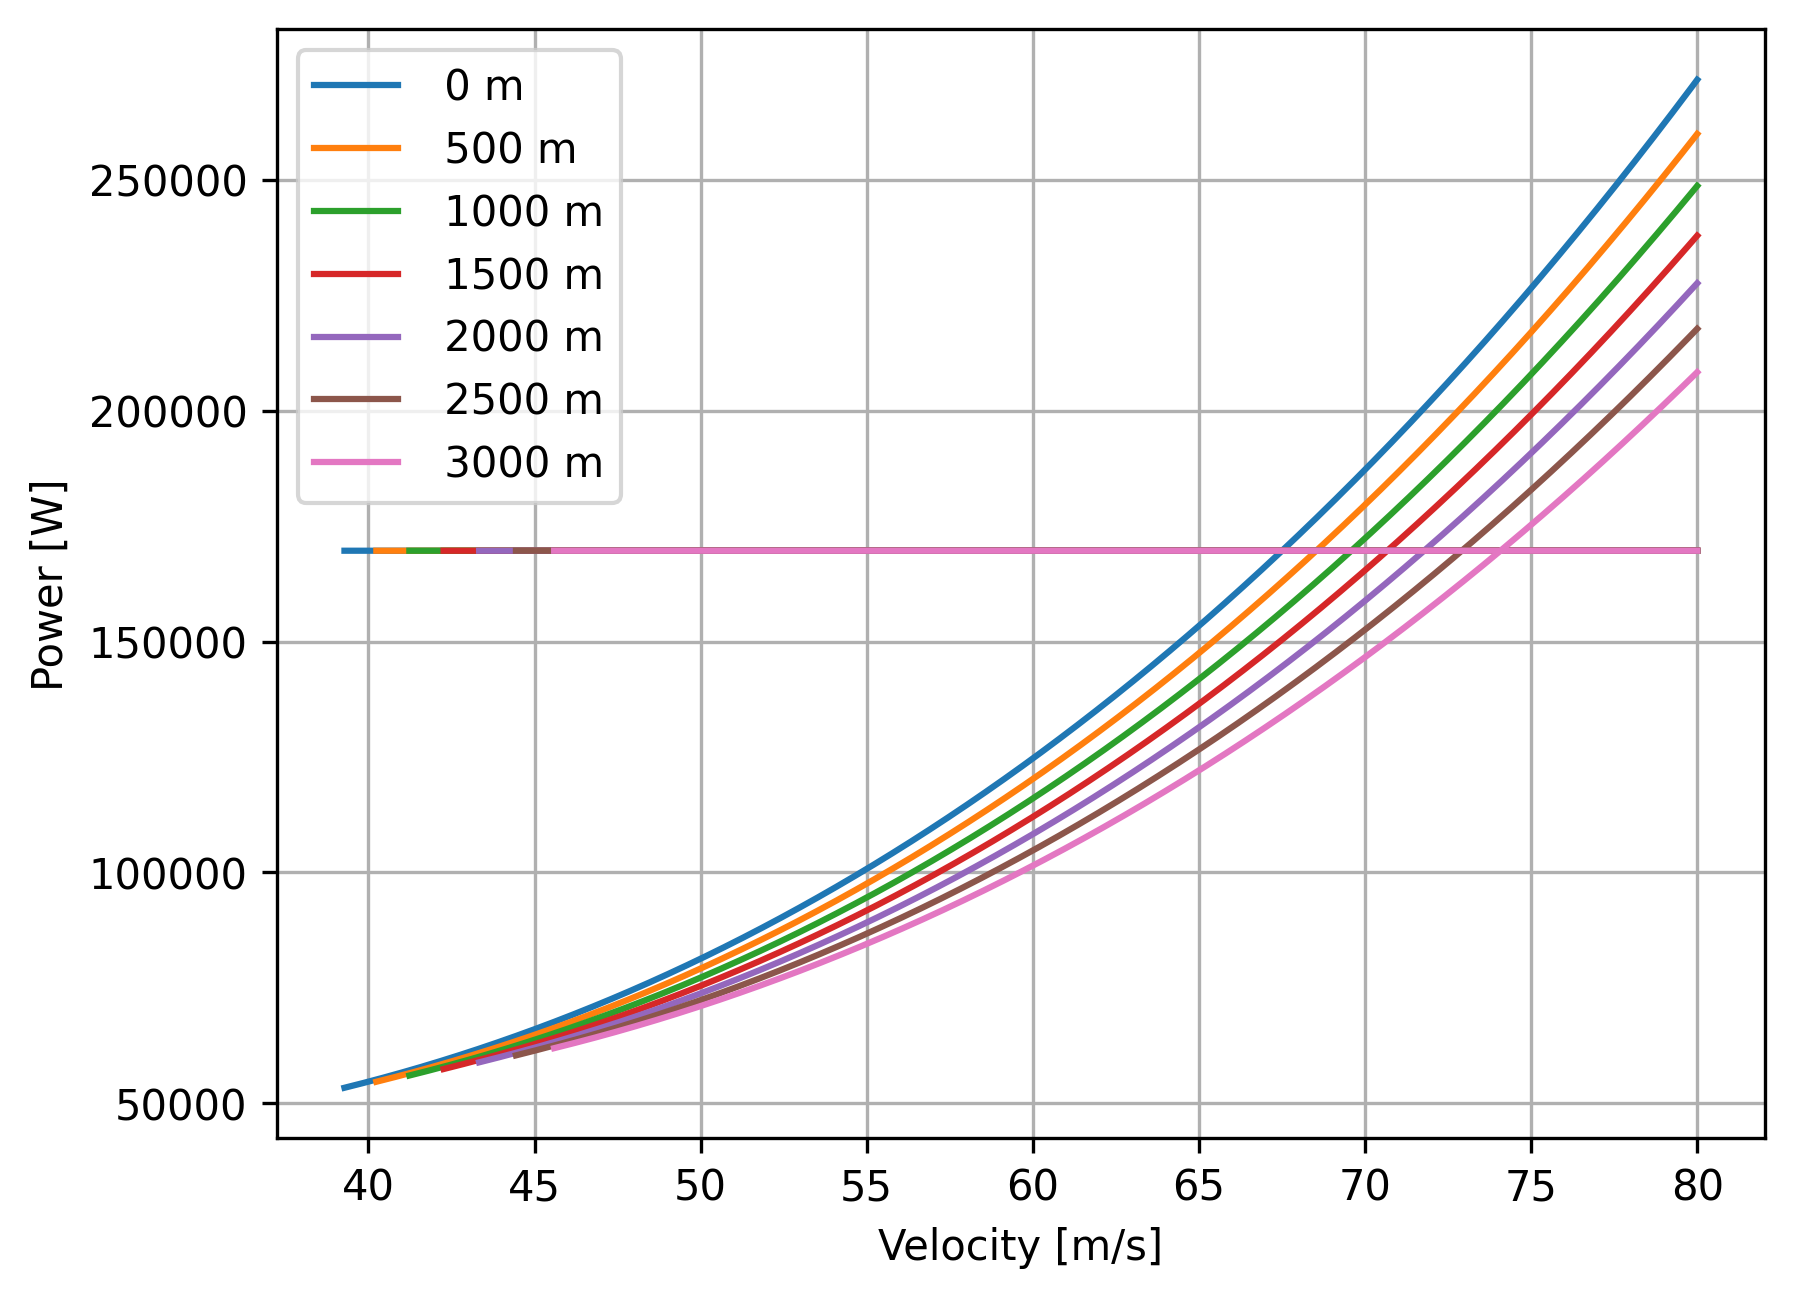
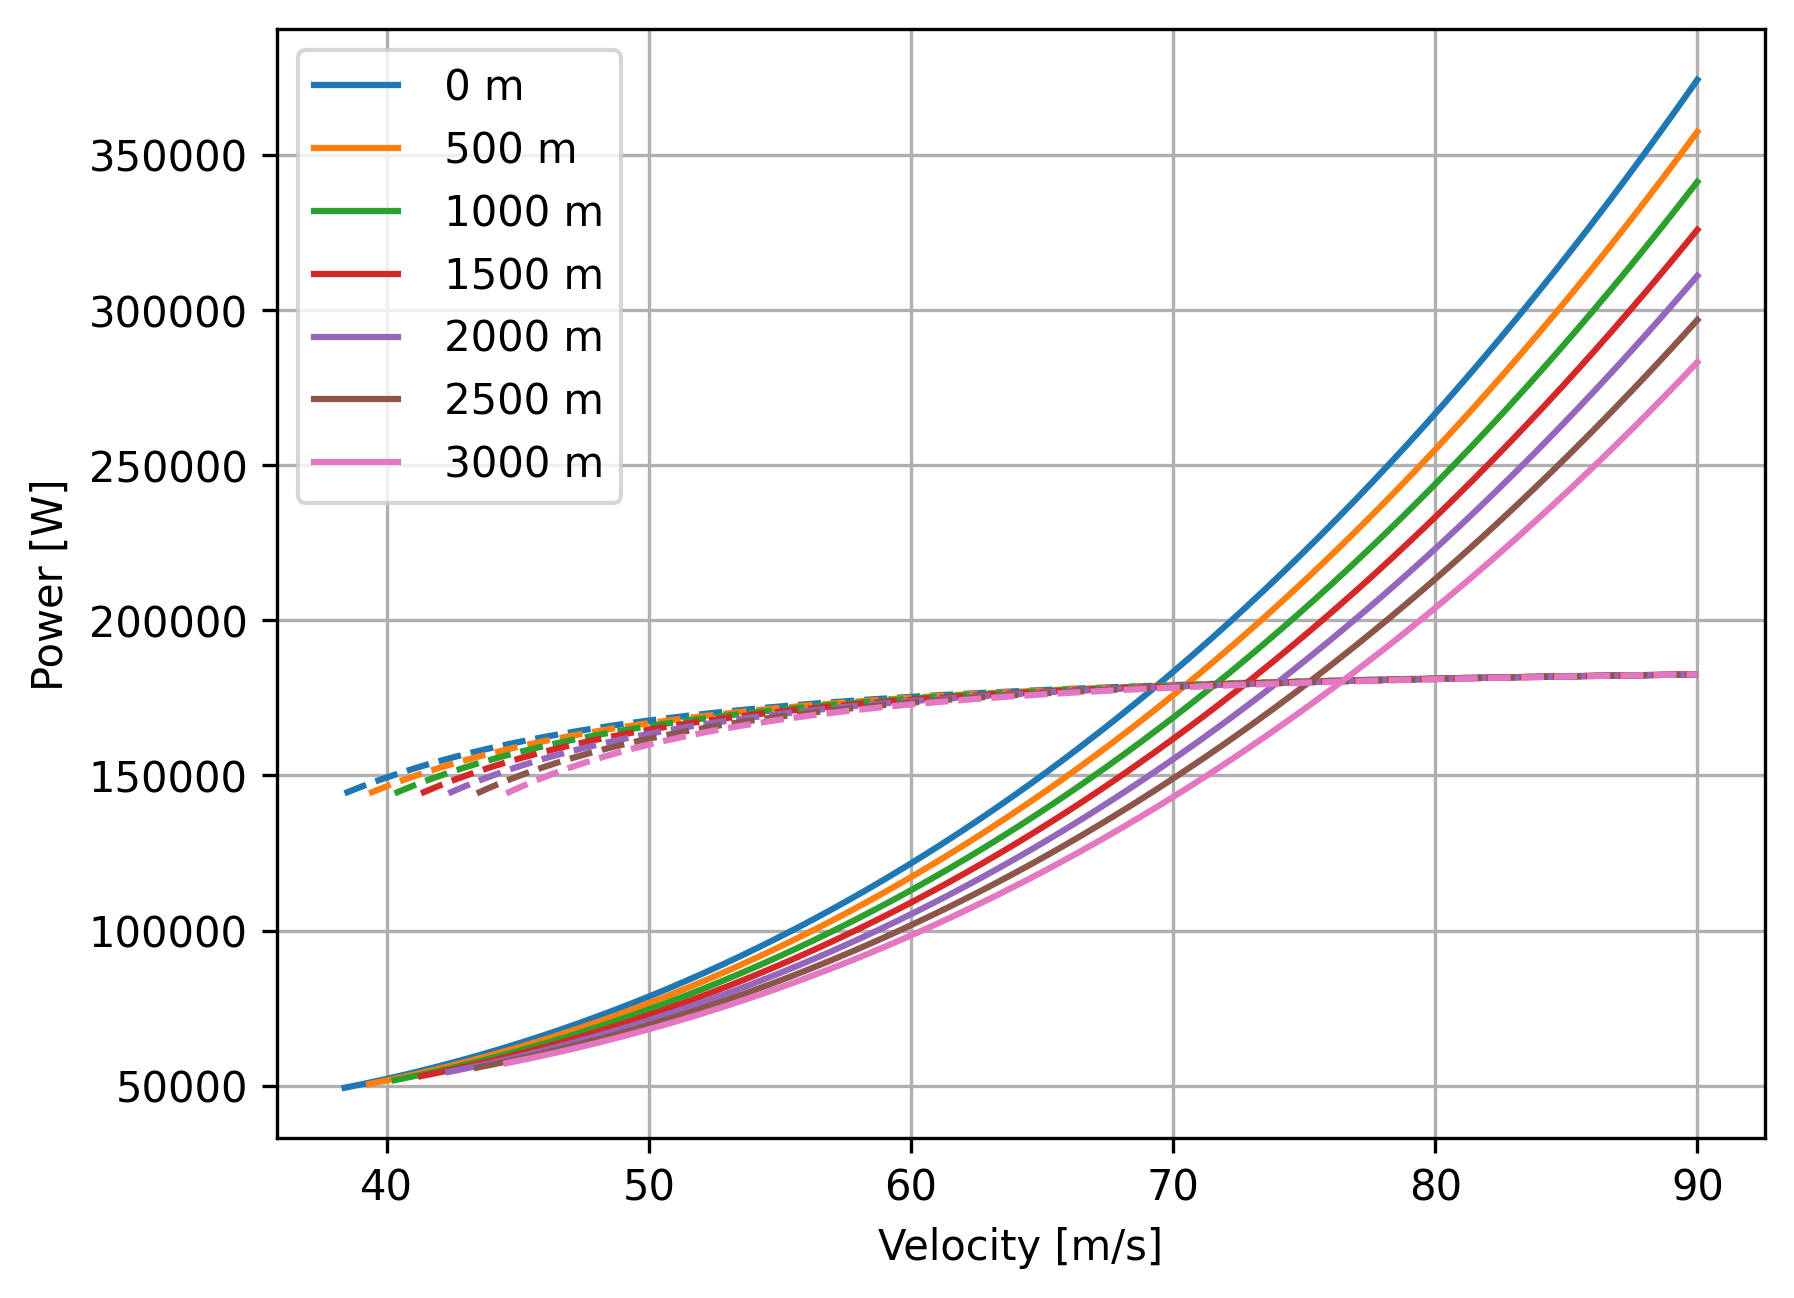
changes to implement power available

diff --git a/performance_diagrams/performance_diagrams.py b/performance_diagrams/performance_diagrams.py
@@ -9,21 +9,29 @@ from classes.isa import *
 from lookups.consts import *
 import matplotlib.pyplot as plt
 from pathlib import Path
+from Propeller_performance import *
 
 
 def stall_speed(mtow, C_l_max, rho, S):
     return math.sqrt((2 * mtow)/(rho * S * C_l_max))
 
 
-def power_calc(cd0, e, AR, mtow, V, S,alt_m, eta_p, P_shaft,Delta_T):
+def power_calc(cd0, e, AR, mtow, V, S,alt_m, P_shaft,Delta_T, D_ft):
     #one altitude
+    
     atmos_model = Atmosphere(alt_m, Delta_T)
     rho = atmos_model.density[0]
+    T_engine, P_useful_w = curve(D_ft, rho, P_shaft)
     C_l = mtow / (0.5 * rho * V ** 2 * S)
     C_d = cd0 + 0.95**2*C_l ** 2 / (np.pi * AR * e)
     P_r = C_d * 0.5 * rho * V ** 3 * S #DV
-    P_a = eta_p * P_shaft #eta p will be variable
+    P_a = P_useful_w #eta p will be variable
     excess_power = P_a - P_r
+    # print("Pa", P_a)
+    # print("P_r", P_r)
+    # print("excess", excess_power)
+    plt.plot(V, P_a)
+    plt.show()
     return excess_power,P_r, P_a
 
 # V = np.linspace(1.3 * stall_speed((1920*9.81), 1.38, 1.25, 25),110, 5000)
@@ -42,6 +50,7 @@ def RoC_vs_V(excess_power, V, mtow):
     save_path=Path(__file__).parent / "performance_figures/roc_v.png"
     plt.xlabel("Velocity [m/s]")
     plt.ylabel("Rate of Climb [m/s]")
+    plt.ylim(-4,6)
     plt.grid(True)
     plt.plot(V, RoC)
     os.makedirs(os.path.dirname(save_path), exist_ok=True)
@@ -84,7 +93,7 @@ def power_curves_altitude(cd0, e, AR, mtow, S, P_a, alt_m, delta_T):
 
         atmos_model = Atmosphere(alt, delta_T)
         rho = atmos_model.density[0]
-        V = np.linspace(1.3*stall_speed(mtow, C_l_max, rho, S), 80, 5000)
+        V = np.linspace(1.3*stall_speed(mtow, C_l_max, rho, S), 90, 151)
         V_alts.append(V)
 
         C_l = mtow / (0.5 * rho * V**2 * S)
@@ -98,7 +107,7 @@ def power_curves_altitude(cd0, e, AR, mtow, S, P_a, alt_m, delta_T):
         
 
         line, = plt.plot(V, P_r, label=f"{alt: .0f} m")
-        plt.plot(V, P_a, color=line.get_color())
+        plt.plot(V, P_a, linestyle='--',color=line.get_color())
     save_path=Path(__file__).parent / "performance_figures/power_curves_alt.png"
     plt.xlabel("Velocity [m/s]")
     plt.ylabel("Power [W]")
@@ -125,6 +134,7 @@ def RoC_multiple_alts(P_a_alts, P_r_alts, V_alts, mtow,alt_m):
     save_path=Path(__file__).parent / "performance_figures/roc_alt.png"
     plt.xlabel("Velocity [m/s]")
     plt.ylabel("Rate of Climb [m/s]")
+    plt.ylim(-4,6)
     plt.grid(True)
     plt.legend()
     os.makedirs(os.path.dirname(save_path), exist_ok=True)
@@ -140,7 +150,7 @@ def max_RoC_altitude(mtow, P_a, cd0, S, AR, e, delta_T):
     for a in alts:
         atmos_model = Atmosphere(a, delta_T)
         rho = atmos_model.density[0]
-        V = np.linspace(1.3*stall_speed(mtow, C_l_max, rho, S), 80, 5000)
+        V = np.linspace(1.3*stall_speed(mtow, C_l_max, rho, S), 80, 151)
 
         C_l = mtow / (0.5 * rho * V ** 2 * S)
         C_d = cd0 + 0.95**2*C_l ** 2 / (np.pi * AR * e)
@@ -157,6 +167,7 @@ def max_RoC_altitude(mtow, P_a, cd0, S, AR, e, delta_T):
     save_path=Path(__file__).parent / "performance_figures/max_roc_alt.png"
     plt.xlabel("Maximum Rate of Climb [m/s]")
     plt.ylabel("Altitude [m]")
+    # plt.ylim(-4,6)
     plt.grid(True)
     plt.plot(max_RoCs, alts)
     os.makedirs(os.path.dirname(save_path), exist_ok=True)
@@ -176,7 +187,7 @@ def envelope(C_l_max, mtow, S, cd0, AR, e, P_a, rho_0, n, delta_T):
     for a in alts:
         atmos_model = Atmosphere(a, delta_T)
         rho = atmos_model.density[0]
-        V = np.linspace(1.3*stall_speed(mtow, C_l_max, rho, S), 110, 5000)
+        V = np.linspace(1.3*stall_speed(mtow, C_l_max, rho, S), 110, 151)
 
         V_s = math.sqrt((2 * mtow)/(rho * S * C_l_max))
         V_s_list.append(V_s)
@@ -267,22 +278,28 @@ if __name__ == '__main__':
     # ---- Design parameters ----
     e = 0.752
     AR = 10.2
-    mtow = 1912 * g  # [N]
+    mtow = 1821 * 9.81  # [N]
 
     atmos_model = Atmosphere(alt, delta_T)
     rho_0 = atmos_model.density[0]
-
+    
     C_l_max = 1.38 #cruise
-    S = 24.3
+    S = 24.23
     n = 1
-    cd0 = 0.0342
-
-    V = np.linspace(1.3 * stall_speed(mtow, C_l_max, rho_0, S),90, 5000)
-    eta_p = 0.84
+    print(rho_0)
+    print(mtow)
+    print(S)
+    print(C_l_max)
+    cd0 = 0.03376
+    D_ft=5.66667 #propeller diameter
+    V = np.linspace(1.3 * stall_speed(mtow, C_l_max, rho_0, S), 90, 151)
+    print(V)
     cruise_alt = 2500 #m cruise alt
     alt_m = [0,500,1000,1500,2000,2500,3000]
-    P_shaft = 202000
-    excess_power, P_r, P_a = power_calc(cd0, e, AR,mtow, V, S,cruise_alt,eta_p,P_shaft,0)
+    P_shaft = 135.443 #hp
+
+    excess_power, P_r, P_a = power_calc(cd0, e, AR,mtow, V, S,cruise_alt,P_shaft,0,D_ft)
+
     roc = RoC_vs_V(excess_power, V, mtow) #cruise
     Aoc = AoC_vs_V(P_a, P_r, mtow, V) #cruise
     P_a_alts, P_r_alts, V_alts = power_curves_altitude(cd0, e, AR, mtow, S, P_a,alt_m, 0)

diff --git a/performance_diagrams/Propeller_performance.py b/performance_diagrams/Propeller_performance.py
@@ -4,7 +4,7 @@ from scipy.interpolate import CubicSpline
 import pandas as pd
 from scipy.optimize import curve_fit
 #propeller chosen https://www.propellor.com/ap431hapf-snl68e
-graphdata = pd.read_csv("ctcp")
+graphdata = pd.read_csv("performance_diagrams\ctcp")
 
 #check units
 ktastofeet= 1.68781
@@ -105,6 +105,8 @@ def cp_calculation(D_ft, rho_kgm3, P_bhp,RPM):
     rho_slug = rho_kgm3*desnityconversion    # slug/ft³
     n = RPM / 60.0                          # rev/s
     P_fps = P_bhp * 550.0                   # ft·lbf/s
+    print("rho input =", rho_kgm3)
+    print("rho_slug =", rho_slug)  
     return P_fps / (rho_slug * n**3 * D_ft**5)
 
 def eff(D_ft,rho_kgm3,P_bhp,J):
@@ -126,13 +128,16 @@ def eff(D_ft,rho_kgm3,P_bhp,J):
     plt.grid()
     plt.show()
     """
+    # print("Cp range in chart:", x.min(), x.max())
+    # print("Cp used:", Cp)
 
+    # print("Y range in chart:", y.min(), y.max())
     efficiency=ctcp*J
     return efficiency,ctcp,Cp
 
 def curve( D_ft,rho_kgm3,P_bhp):
     #power shaft in horsepower per singel engine
-    V = np.linspace(1, 150, 151) #knots
+    V = np.linspace(65, 300, 151) #knots
     Vnew=V*ktastofeet
     RPM = P_to_RPM(P_bhp)
     n = RPM / 60
@@ -150,28 +155,36 @@ def curve( D_ft,rho_kgm3,P_bhp):
     num = 2*(1 -lam ** 2 * np.log(1 + 1/(lam ** 2)) )
     den = 1 + np.sqrt(1+T/(q*A))-2* lam **2* np.log(1 + 1/(lam ** 2))
 
-    #eff1=num/den#new because other gave me linear relationships
-    eff1=2/(1+np.sqrt(1+T/(q*A))) #other flight mechanics book
+    eff1=num/den#new because other gave me linear relationships
+    #eff1=2/(1+np.sqrt(1+T/(q*A))) #other flight mechanics book
 
     P_useful = eff1 * P_bhp
     T_static= ctcp*550*P_bhp/(n*D_ft)#t_static according to Raymer
 
+    P_useful_w = P_useful * 745.7*2 #both engines in watts
+    V_ms = Vnew * 0.3048
 
-    plt.figure()
-    plt.plot( Vnew , eff1)
-    plt.xlabel("Velocity [fps]")
-    plt.ylabel("Propeller efficiency")
-    plt.grid()
+    # print("RPM =", RPM)
+    # print("J range =", J.min(), J.max())
+    # print("Cp =", Cp)
+    # print("ctcp =", ctcp)
+    # print("efficiency =", eff2)
+    # print("eff1 max =", np.max(eff1))
+    # plt.figure()
+    # plt.plot( Vnew , eff1)
+    # plt.xlabel("Velocity [fps]")
+    # plt.ylabel("Propeller efficiency")
+    # plt.grid()
 
-    plt.figure()
-    plt.plot(Vnew , P_useful)
-    plt.xlabel("Velocity [fps]")
-    plt.ylabel("Useful power [hp]")
-    plt.grid()
+    # plt.figure()
+    # plt.plot(V_ms , P_useful_w)
+    # plt.xlabel("Velocity [ms]")
+    # plt.ylabel("Useful power [w]")
+    # plt.grid()
 
-    plt.show()
+    # plt.show()
 
-    return T_static
+    return T_static,P_useful_w
 
 D_ft=5.66667
 curve(D_ft,1.02,160)

diff --git a/performance_diagrams/energy_heigt.py b/performance_diagrams/energy_heigt.py
@@ -12,7 +12,7 @@ from pathlib import Path
 from performance_diagrams import *
 
 
-alts = np.arange(0,10001,50)
+alts = np.arange(0,3001,50)
 print((alts))
 #V_array = np.arange(1,101,1)
 #print(np.shape(V_array))
@@ -58,6 +58,7 @@ def h_v_plot(alts, mtow,cd0,S,AR,e,P_a,c_l_max):
     )
     
     roc_max = []
+    he_at_max = []
 
     for k in range(len(he_bins) - 1):
 
@@ -67,22 +68,27 @@ def h_v_plot(alts, mtow,cd0,S,AR,e,P_a,c_l_max):
         )
 
         if np.any(mask):
-            roc_max.append(np.max(roc_flat[mask]))
+
+            roc_bin = roc_flat[mask]
+            he_bin = he_flat[mask]
+
+            idx = np.argmax(roc_bin)
+
+            roc_max.append(roc_bin[idx])
+            he_at_max.append(he_bin[idx])
+
         else:
             roc_max.append(np.nan)
+            he_at_max.append(np.nan)
 
     roc_max = np.array(roc_max)
+    he_at_max = np.array(he_at_max)
 
-    # Energy-height coordinate corresponding to roc_max
-    he_mid = 0.5 * (he_bins[:-1] + he_bins[1:])
+    dh = np.diff(he_bins)
 
-    # Remove NaNs and non-positive climb rates
     valid = np.isfinite(roc_max) & (roc_max > 0)
 
-    time_to_climb = np.trapz(
-        1 / roc_max[valid],
-        he_mid[valid]
-    )
+    time_to_climb = np.sum(dh[valid] / roc_max[valid])
 
     print(f"Minimum time to climb = {time_to_climb:.1f} s")
 
